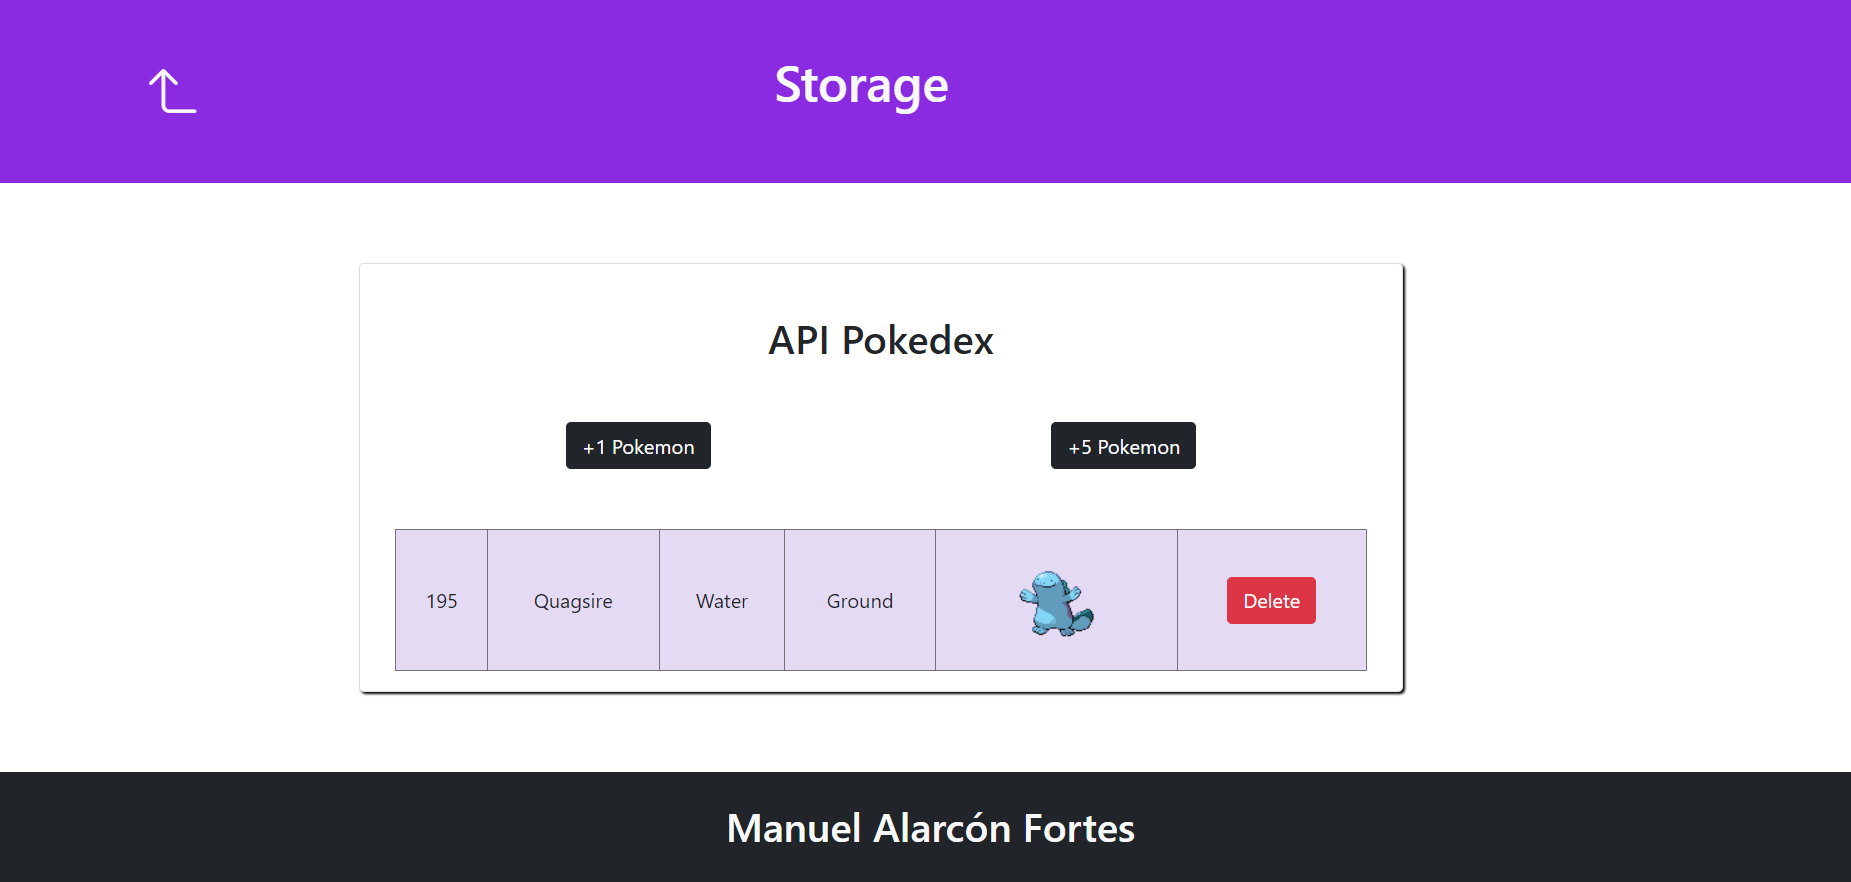
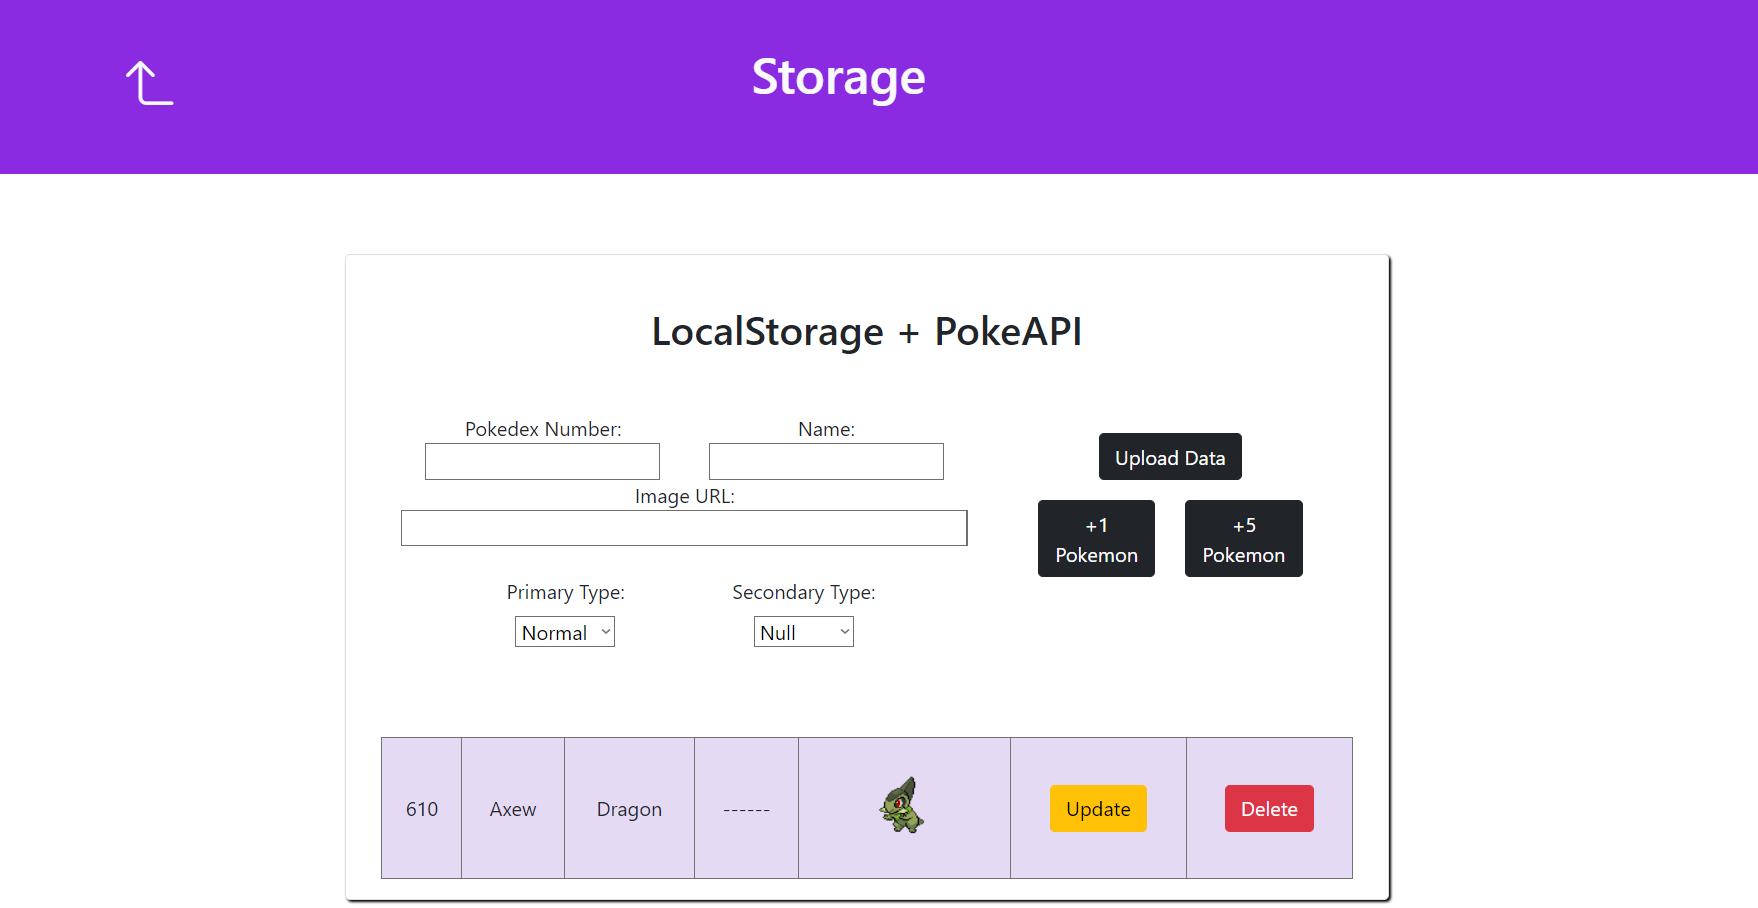
Readme Update

diff --git a/ejercicios/storage/SessionStorage/SessionStorage.html b/ejercicios/storage/SessionStorage/SessionStorage.html
@@ -1,7 +1,7 @@
 <!DOCTYPE html>
 <html lang="en">
 <head>
-    <title>IndexedDB</title>
+    <title>Session Storage</title>
     <meta charset="UTF-8">
     <meta name="viewport" content="width=device-width, initial-scale=1.0">
     <meta http-equiv="X-UA-Compatible" content="IE=edge">

diff --git a/README.md b/README.md
@@ -143,11 +143,11 @@ Este ejercicio consisten en distintos tipos de almacenaje.
 
 <h2>Cookie Storage</h2>
 
-This exercise consists of 2 input fields, where the name and surname of the user can be specified and a button, which sends the data to the table below. The JavaScript files linked to this page are "uploadData.js" which recieves values in the inputs, sending them to "saveData.js" which adds them to the Cookie Storage. "showData.js" displays the content in the table, which contains a delete button that calls "deleteData.js" which deletes the element by the given name.
+This exercise consists of 2 input fields, where the name and surname of the user can be specified and a button, which sends the data to the table below. The JavaScript files linked to this page are "uploadData.js" which recieves values in the inputs, sending them to "saveData.js" which adds them to the Cookie Storage. "showData.js" displays the content in the table, which contains a delete button that calls "deleteData.js" which deletes the element by the given name and a update button which calls "updateData.js".
 
 - - - - - - - - - - - - - - - - - - - - - - - - - - - - - - - - - - - - - - - - - - - - - - - - - - - - - - - - - - - - - - - -
 
-Este ejercicio está constituido por dos imputs, siendo donde se introducen el nombre y apellidos del usuario y un botón, que envia los valores a la tabla inferior. Los enlaces de JavaScript son de "uploadData.js", que recine los valores de los inputs y los manda a "saveData.js" que añade el elemento al almacenamiento de Cookie. "showData.js" muestra el contenido de la tabla, el cual contiene un boton de eliminad que llama a "deleteData.js", que lo elimina por el nombre dado.s
+Este ejercicio está constituido por dos imputs, siendo donde se introducen el nombre y apellidos del usuario y un botón, que envia los valores a la tabla inferior. Los enlaces de JavaScript son de "uploadData.js", que recine los valores de los inputs y los manda a "saveData.js" que añade el elemento al almacenamiento de Cookie. "showData.js" muestra el contenido de la tabla, el cual contiene un boton de eliminar que llama a "deleteData.js", que lo elimina por el nombre dado y un boton para actualizar que llama a "updateData.js".
 
 <img src="./img/cookieStorage.png">
 
@@ -155,26 +155,40 @@ Este ejercicio está constituido por dos imputs, siendo donde se introducen el n
 
 - - - - - - - - - - - - - - - - - - - - - - - - - - - - - - - - - - - - - - - - - - - - - - - - - - - - - - - - - - - - - - - -
 
-<h2>Local Storage</h2>
+<h2>Session Storage</h2>
 
-This exercise consists of 3 input fields, where the name, surname and age of the user can be specified and a button, which sends the data to the table below. The JavaScript files linked to this page are "uploadData.js" which recieves values in the inputs, sending them to "saveData.js" which adds them to the localStorage. "showData.js" displays the content in the table, which contains a delete button that calls "deleteData.js" which deletes the element by the given name.
-
-- - - - - - - - - - - - - - - - - - - - - - - - - - - - - - - - - - - - - - - - - - - - - - - - - - - - - - - - - - - - - - - -
-
-Este ejercicio está constituido por tres imputs, siendo donde se introducen el nombre, apellidos y edad del usuario y un botón, que envia los valores a la tabla inferior. Los enlaces de JavaScript son de "uploadData.js", que recine los valores de los inputs y los manda a "saveData.js" que añade el elemento al localStorage. "showData.js" muestra el contenido de la tabla, el cual contiene un boton de eliminad que llama a "deleteData.js", que lo elimina por el nombre dado.
-
-<img src="./img/LocalStorage.png">
+This exercise consists of 3 input fields, where the name, surname and age of the user can be specified and a button, which sends the data to the table below. The JavaScript files linked to this page are "uploadData.js" which recieves values in the inputs, sending them to "saveData.js" which adds them to the SessionStorage. "showData.js" displays the content in the table, which contains a delete button that calls "deleteData.js" which deletes the element by the given name and a update button which calls "updateData.js".
 
 - - - - - - - - - - - - - - - - - - - - - - - - - - - - - - - - - - - - - - - - - - - - - - - - - - - - - - - - - - - - - - - -
 
-- - - - - - - - - - - - - - - - - - - - - - - - - - - - - - - - - - - - - - - - - - - - - - - - - - - - - - - - - - - - - - - -
+Este ejercicio está constituido por tres imputs, siendo donde se introducen el nombre, apellidos y edad del usuario y un botón, que envia los valores a la tabla inferior. Los enlaces de JavaScript son de "uploadData.js", que recine los valores de los inputs y los manda a "saveData.js" que añade el elemento al SessionStorage. "showData.js" muestra el contenido de la tabla, el cual contiene un boton de eliminad que llama a "deleteData.js", que lo elimina por el nombre dado y un boton para actualizar que llama a "updateData.js".
 
-<h2>API Storage</h2>
-
-This exercise consists of 2 buttons, which especifies the amount of Pokemon added to the table below. The JavaScript files linked to this page are "uploadData.js" which recieves the information from "recieveAPIData.js", which gets the information from PokeAPI, sending them to "saveData.js" which adds them to the localStorage. "showData.js" displays the content in the table, which contains a delete button that calls "deleteData.js" which deletes the element by the given name.
+<img src="./img/SessionStorage.png">
 
 - - - - - - - - - - - - - - - - - - - - - - - - - - - - - - - - - - - - - - - - - - - - - - - - - - - - - - - - - - - - - - - -
 
-Este ejercicio está constituido por dos botones, que especifica la cantidad de Pokemons añadidos a la tabla inferior. Los enlaces de JavaScript son de "uploadData.js", que recibe los valores de "recieveAPIData.js"  que recoge la informacion de la PokeAPI y los manda a "saveData.js" que añade el elemento al localStorage. "showData.js" muestra el contenido de la tabla, el cual contiene un boton de eliminad que llama a "deleteData.js", que lo elimina por el nombre dado.
+- - - - - - - - - - - - - - - - - - - - - - - - - - - - - - - - - - - - - - - - - - - - - - - - - - - - - - - - - - - - - - - -
+
+<h2>LocalStorage + PokeAPI</h2>
+
+This exercise consists of 5 input fields for Pokedex Number, Pokemon Name, the types and the url for their image. There is a button to send the data and 2 buttons, which especifies the amount of Pokemon added to the table below via API. The JavaScript files linked to this page are "uploadData.js" which recieves the information from "recieveAPIData.js", which gets the information from PokeAPI, sending them to "saveData.js" which adds them to the localStorage. "showData.js" displays the content in the table, which contains a delete button that calls "deleteData.js" which deletes the element by the given name and a update button which calls "updateData.js".
+
+- - - - - - - - - - - - - - - - - - - - - - - - - - - - - - - - - - - - - - - - - - - - - - - - - - - - - - - - - - - - - - - -
+
+Este ejercicio está constituido por 5 campos de input: Numero de la Pokedex, Nombre del Pokemon, los tipos y la url de la imagen de estos. También hay un botón para subir los datos y otros dos botones, que especifica la cantidad de Pokemons añadidos a la tabla inferior vía API. Los enlaces de JavaScript son de "uploadData.js", que recibe los valores de "recieveAPIData.js"  que recoge la informacion de la PokeAPI y los manda a "saveData.js" que añade el elemento al localStorage. "showData.js" muestra el contenido de la tabla, el cual contiene un boton de eliminad que llama a "deleteData.js", que lo elimina por el nombre dado y un boton para actualizar que llama a "updateData.js".
+
+<img src="./img/pokeAPIStorage.png">
+
+- - - - - - - - - - - - - - - - - - - - - - - - - - - - - - - - - - - - - - - - - - - - - - - - - - - - - - - - - - - - - - - -
+
+- - - - - - - - - - - - - - - - - - - - - - - - - - - - - - - - - - - - - - - - - - - - - - - - - - - - - - - - - - - - - - - -
+
+<h2>IndexedDB + StarWars</h2>
+
+This exercise consists of 3 input fields for name, homeworld and species. There is a button to send the data and 2 buttons, which especifies the amount of Characters added to the table below via API. The JavaScript files linked to this page are "uploadData.js" which recieves the information from "recieveAPIData.js", which gets the information from SWAPI(Star Wars API), sending them to "saveData.js" which adds them to the IndexedDB. "showData.js" displays the content in the table, which contains a delete button that calls "deleteData.js" which deletes the element by the given name and a update button which calls "updateData.js".
+
+- - - - - - - - - - - - - - - - - - - - - - - - - - - - - - - - - - - - - - - - - - - - - - - - - - - - - - - - - - - - - - - -
+
+Este ejercicio está constituido por 3 campos de input: nombre, planeta de origen y especie. También hay un botón para subir los datos y otros dos botones, que especifica la cantidad de personajes añadidos a la tabla inferior vía API. Los enlaces de JavaScript son de "uploadData.js", que recibe los valores de "recieveAPIData.js"  que recoge la informacion de la SWAPI(Star Wars API) y los manda a "saveData.js" que añade el elemento a la IndexedDB. "showData.js" muestra el contenido de la tabla, el cual contiene un boton de eliminad que llama a "deleteData.js", que lo elimina por el nombre dado y un boton para actualizar que llama a "updateData.js".
 
 <img src="./img/pokeAPIStorage.png">
